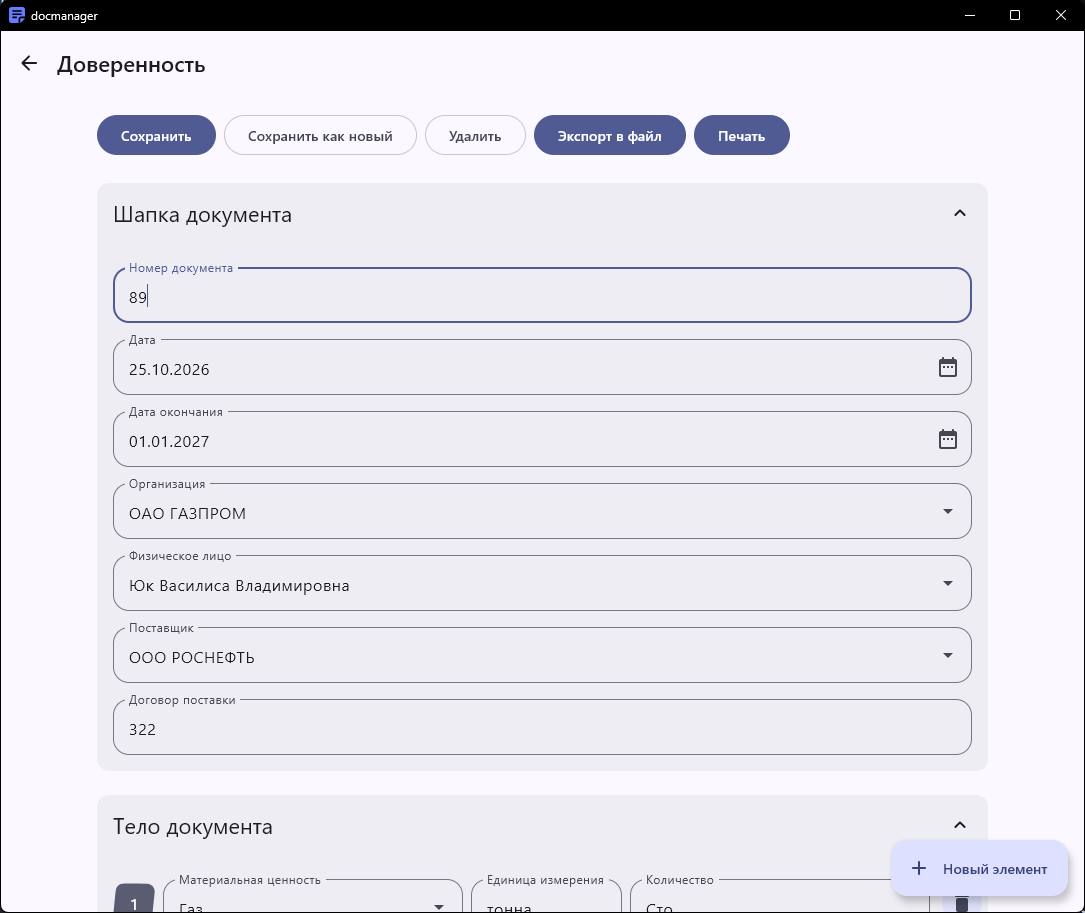
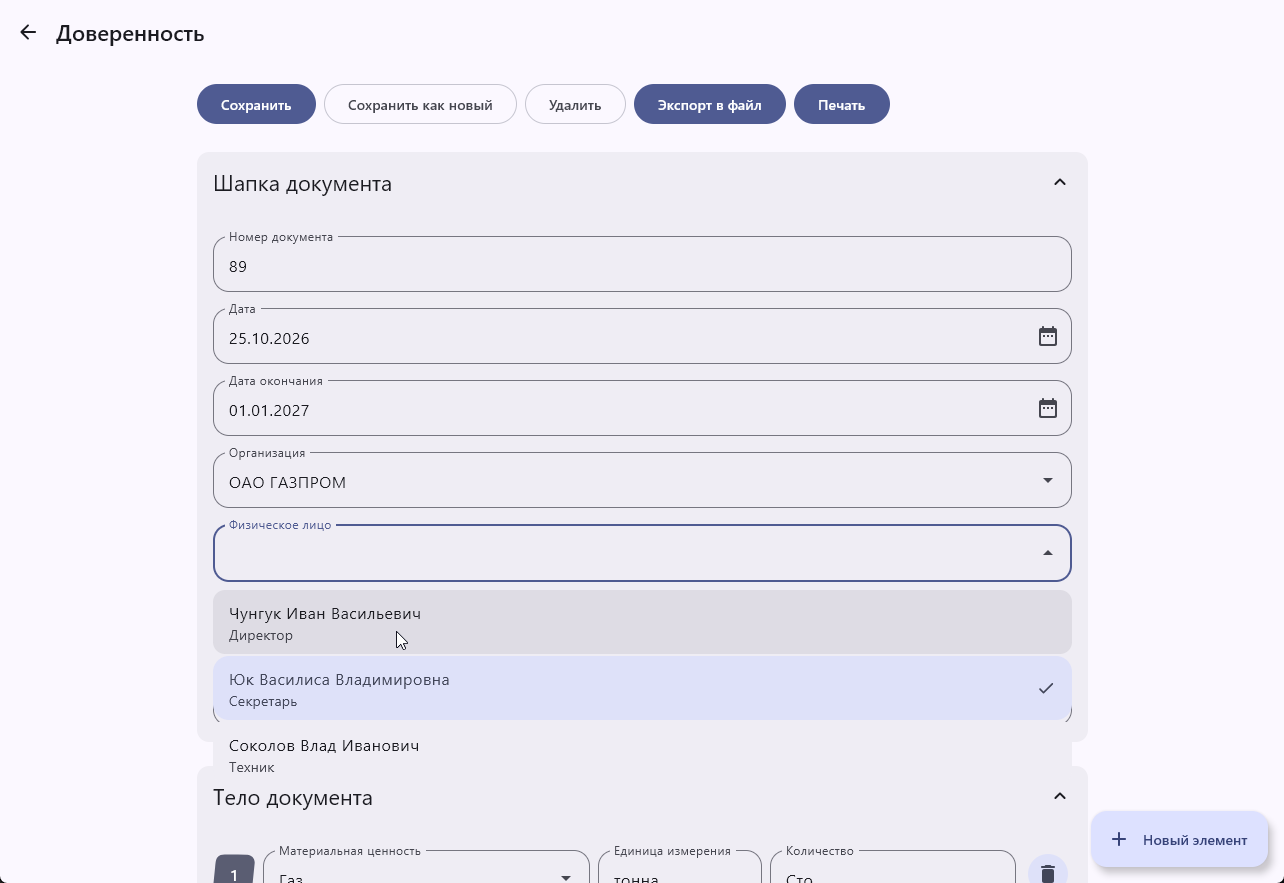
Updated README.md

diff --git a/README.md b/README.md
@@ -8,7 +8,7 @@
 кроссплатформенного приложения на базе **Kotlin Multiplatform (KMP)** для
 управления документооборотом на примере автоматизации работы с доверенностями.
 
-<img src="img.png" width="640px" style="border-radius: 12px">
+<img src="img.png" width="512px">
 
 ### Цель проекта 
 
